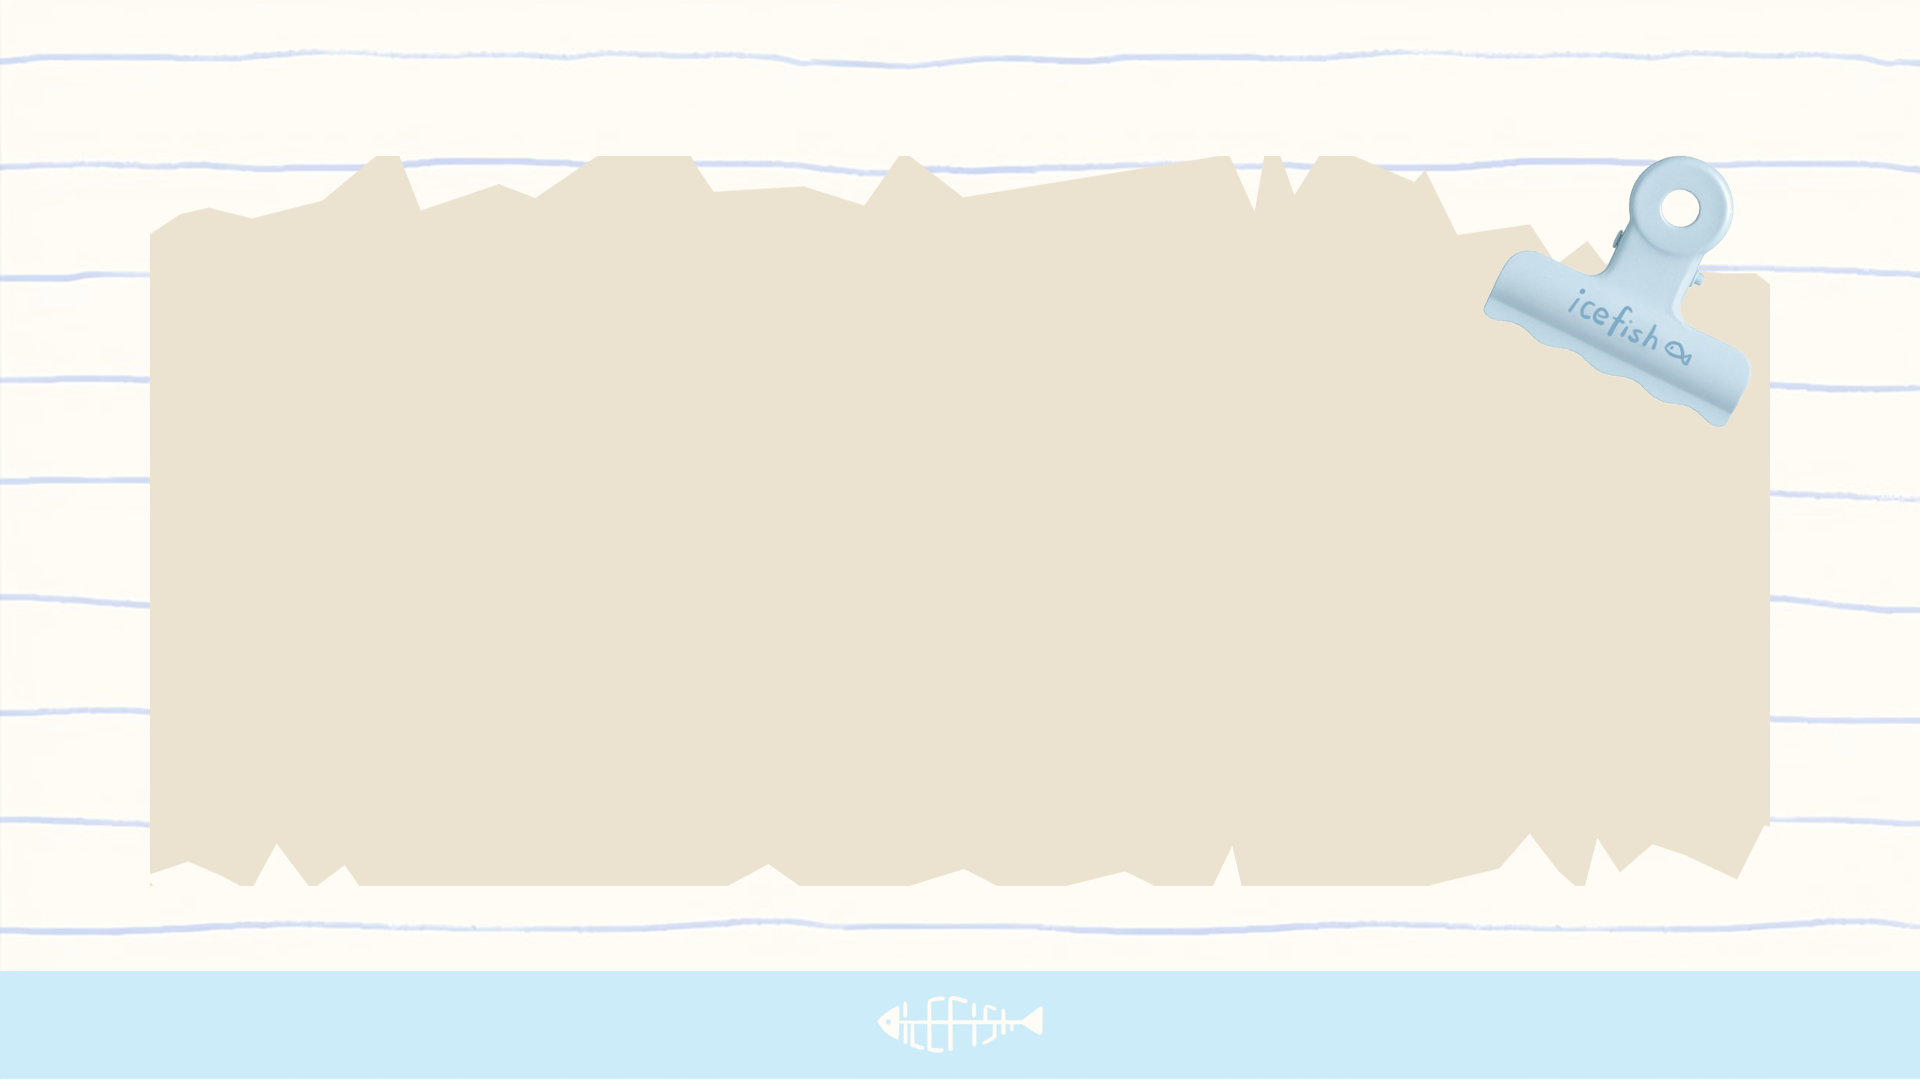
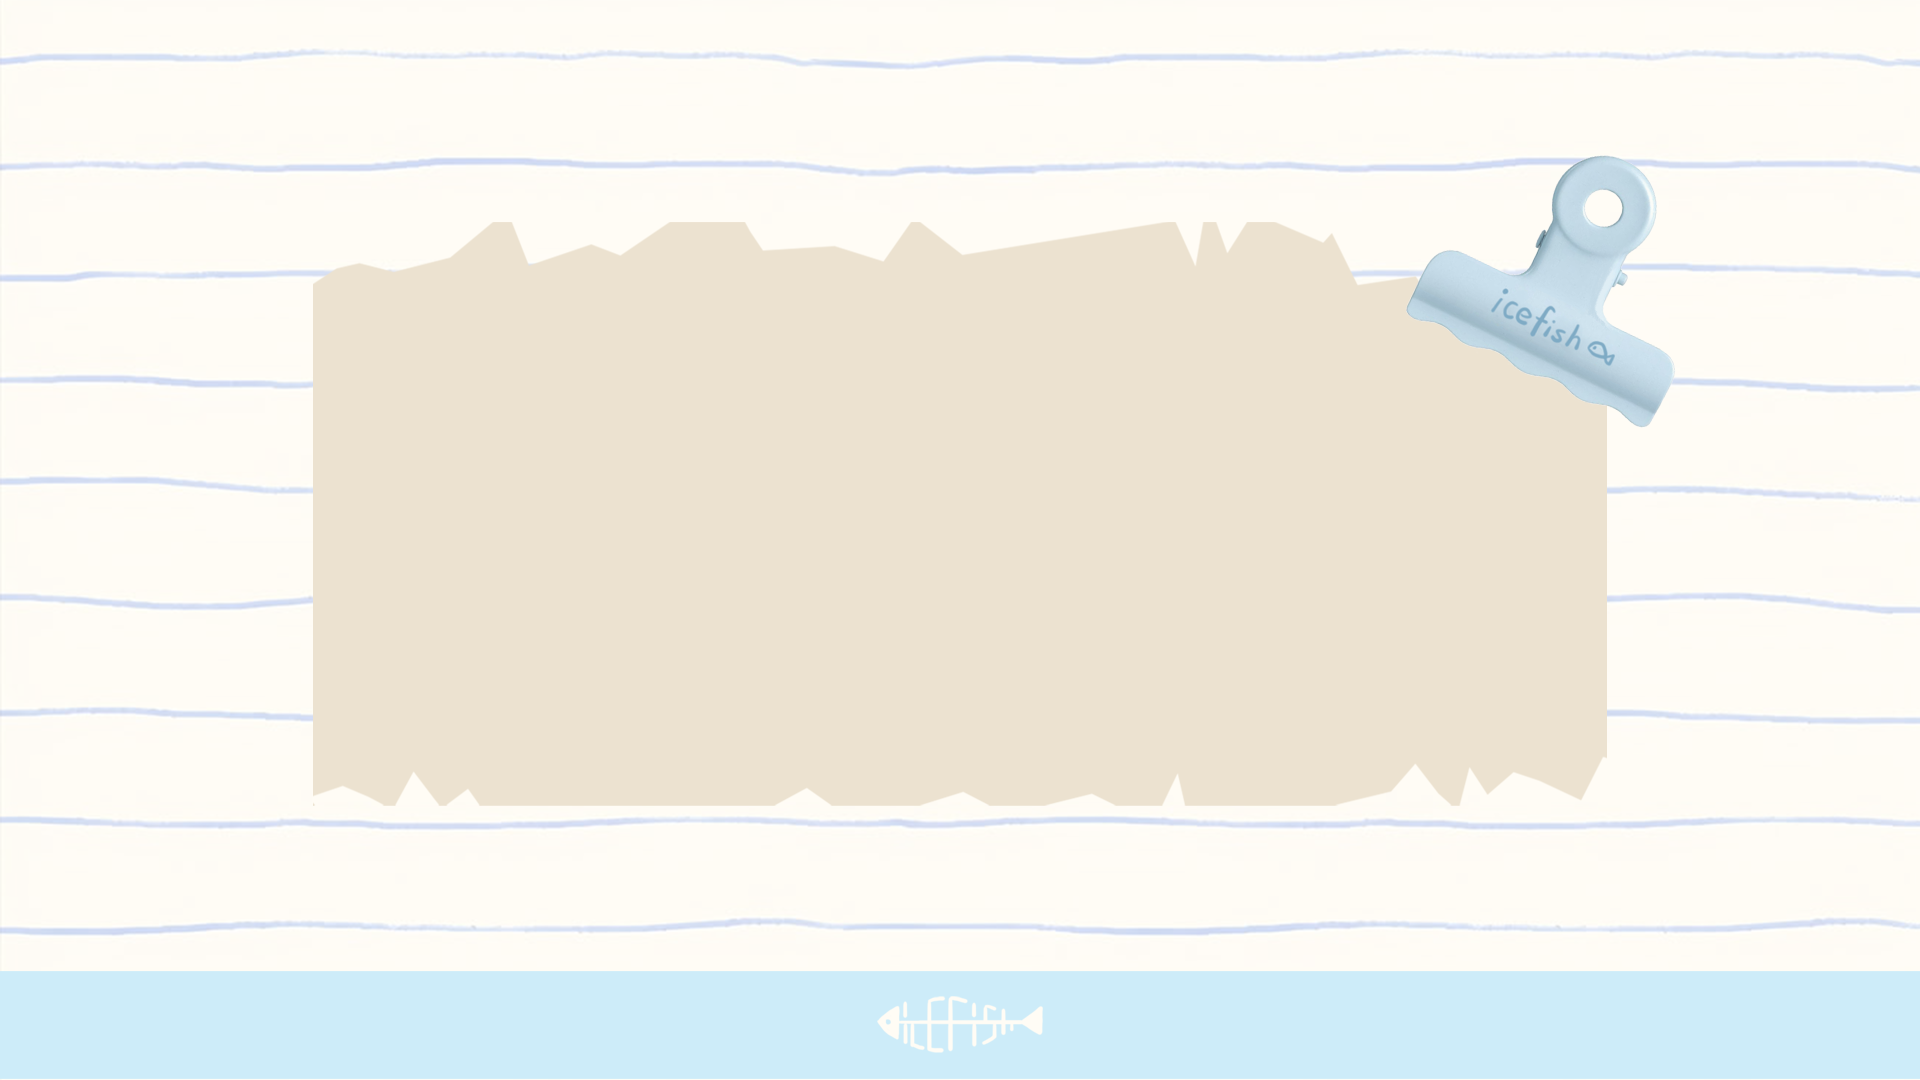
change the size of the image
about me page top and button

Changed region(s): [[0.0625, 0.1222, 0.9375, 0.825]]

diff --git a/about.html b/about.html
@@ -143,7 +143,7 @@
 
             left: 50%;
 
-            top: 50%;
+            top: 43%;
 
             transform: translate(-50%, -50%);
 
